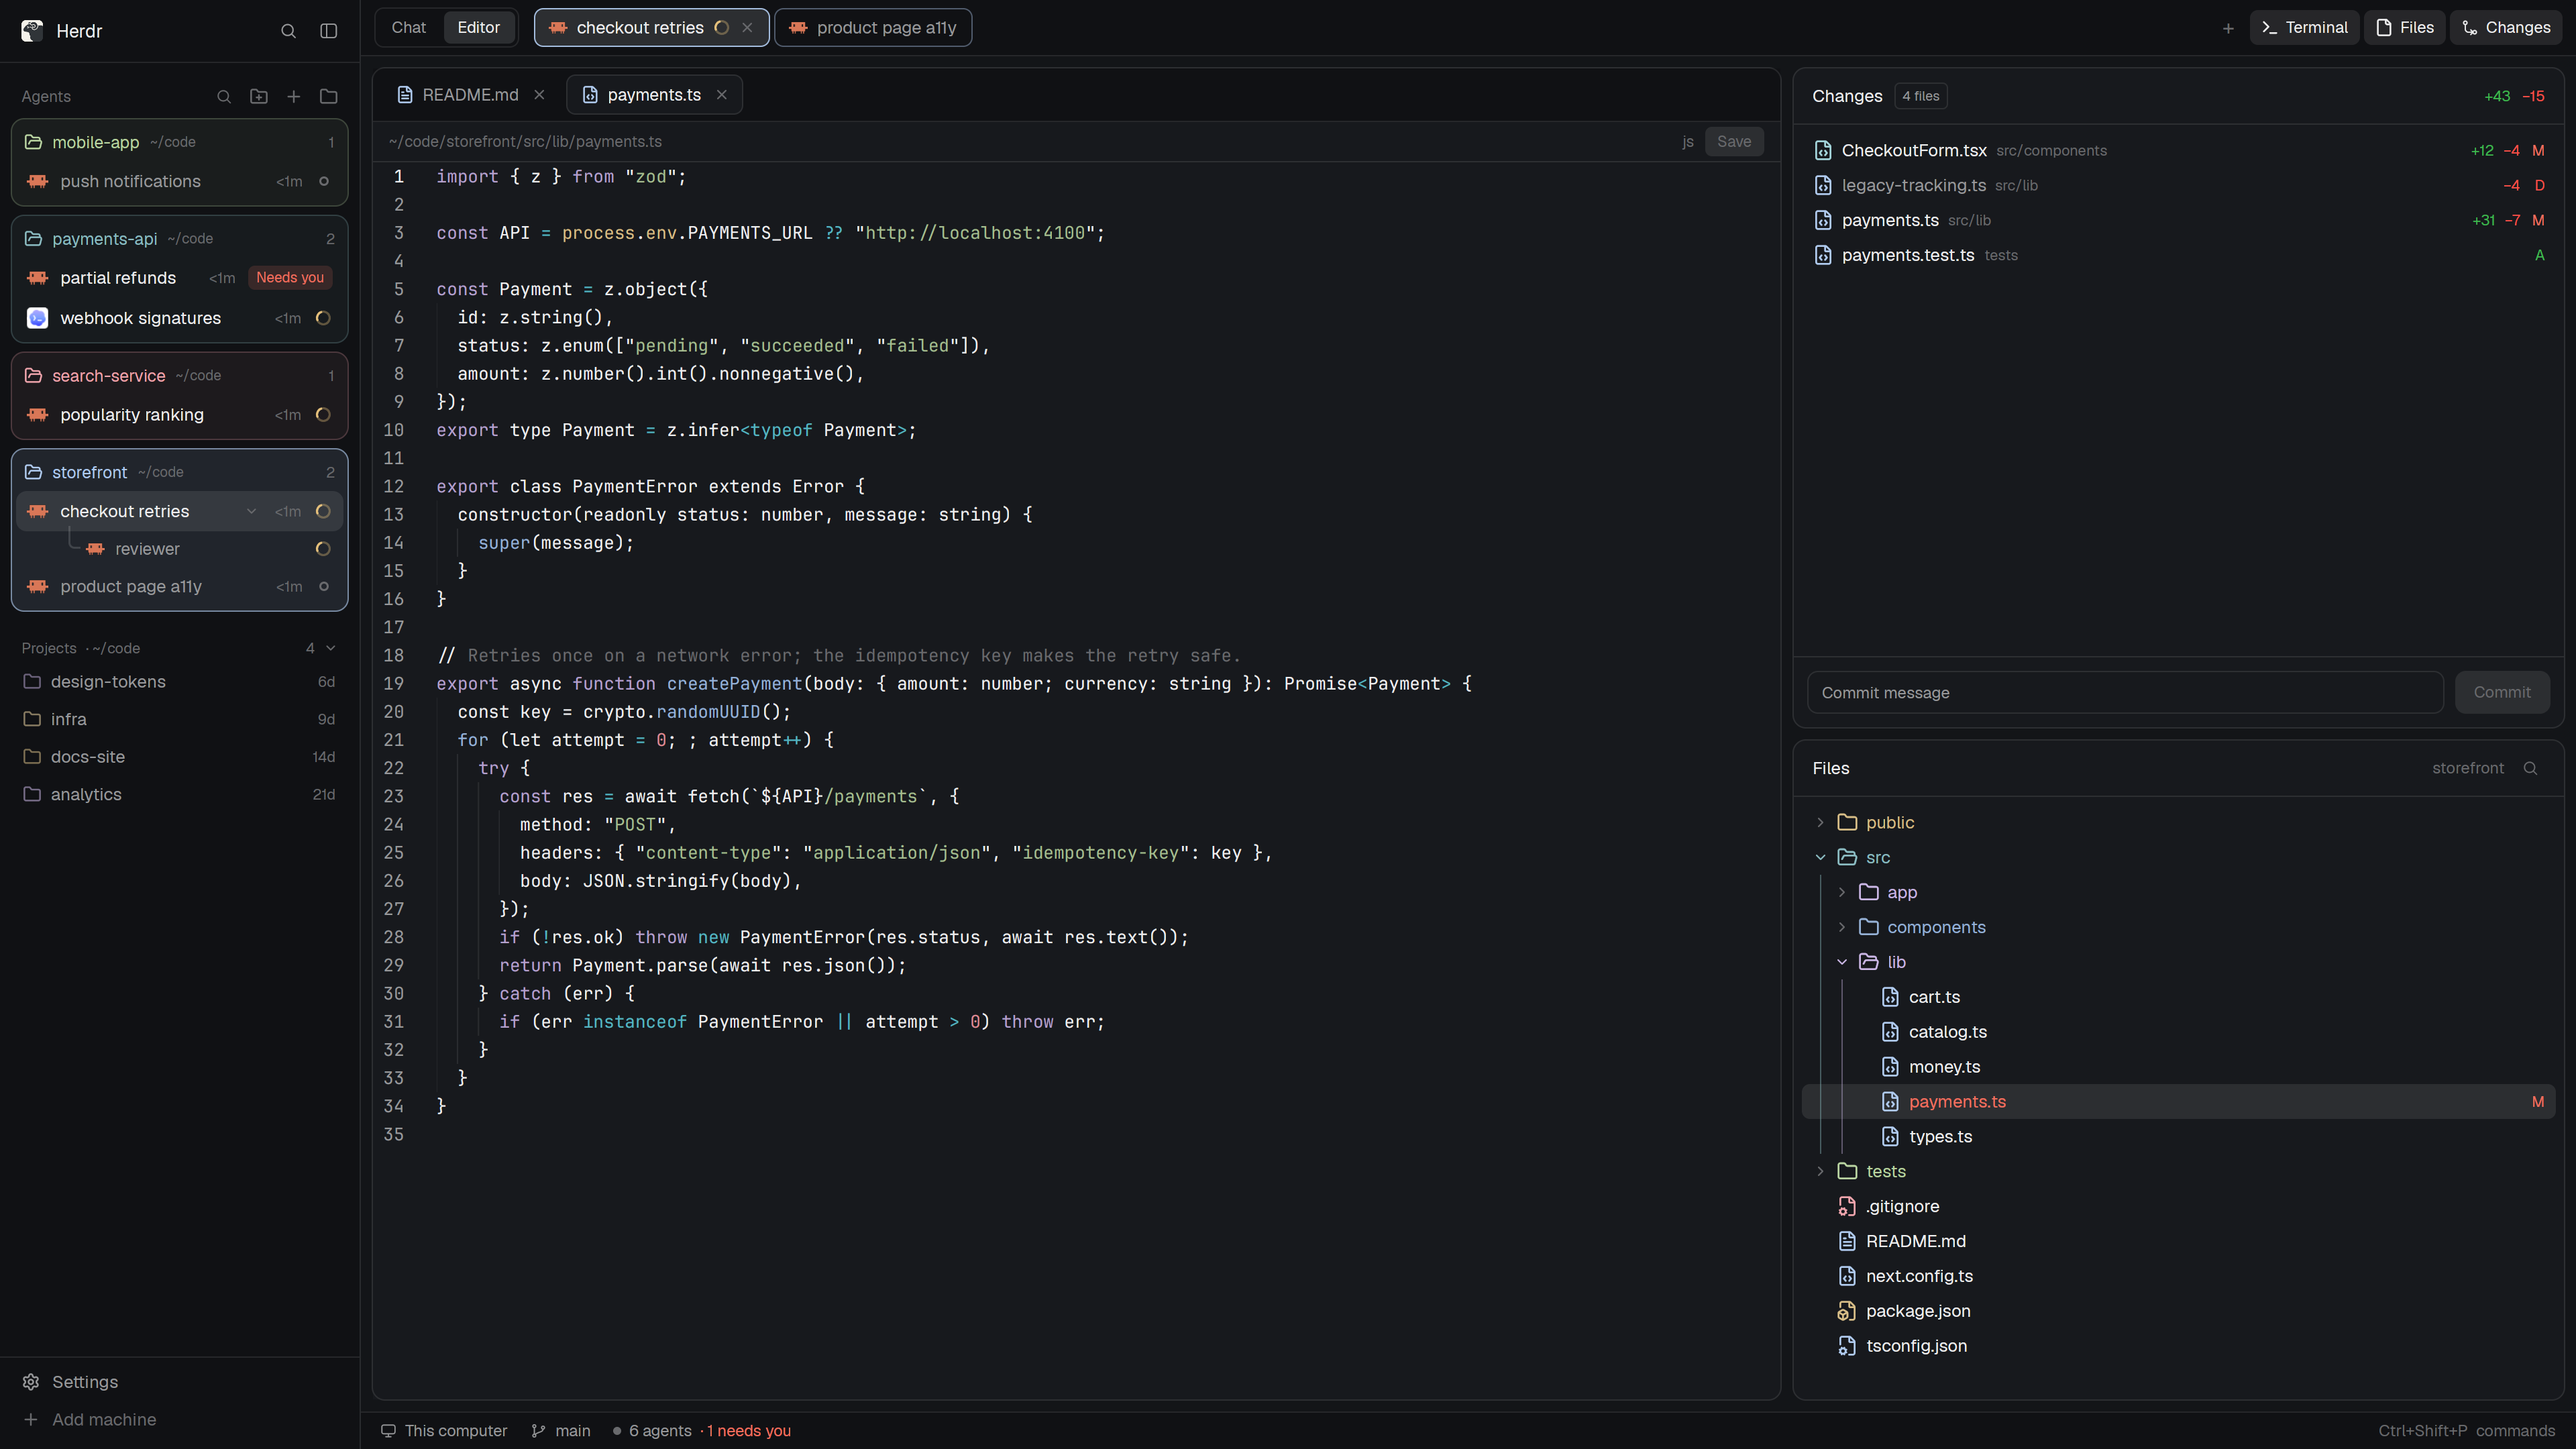
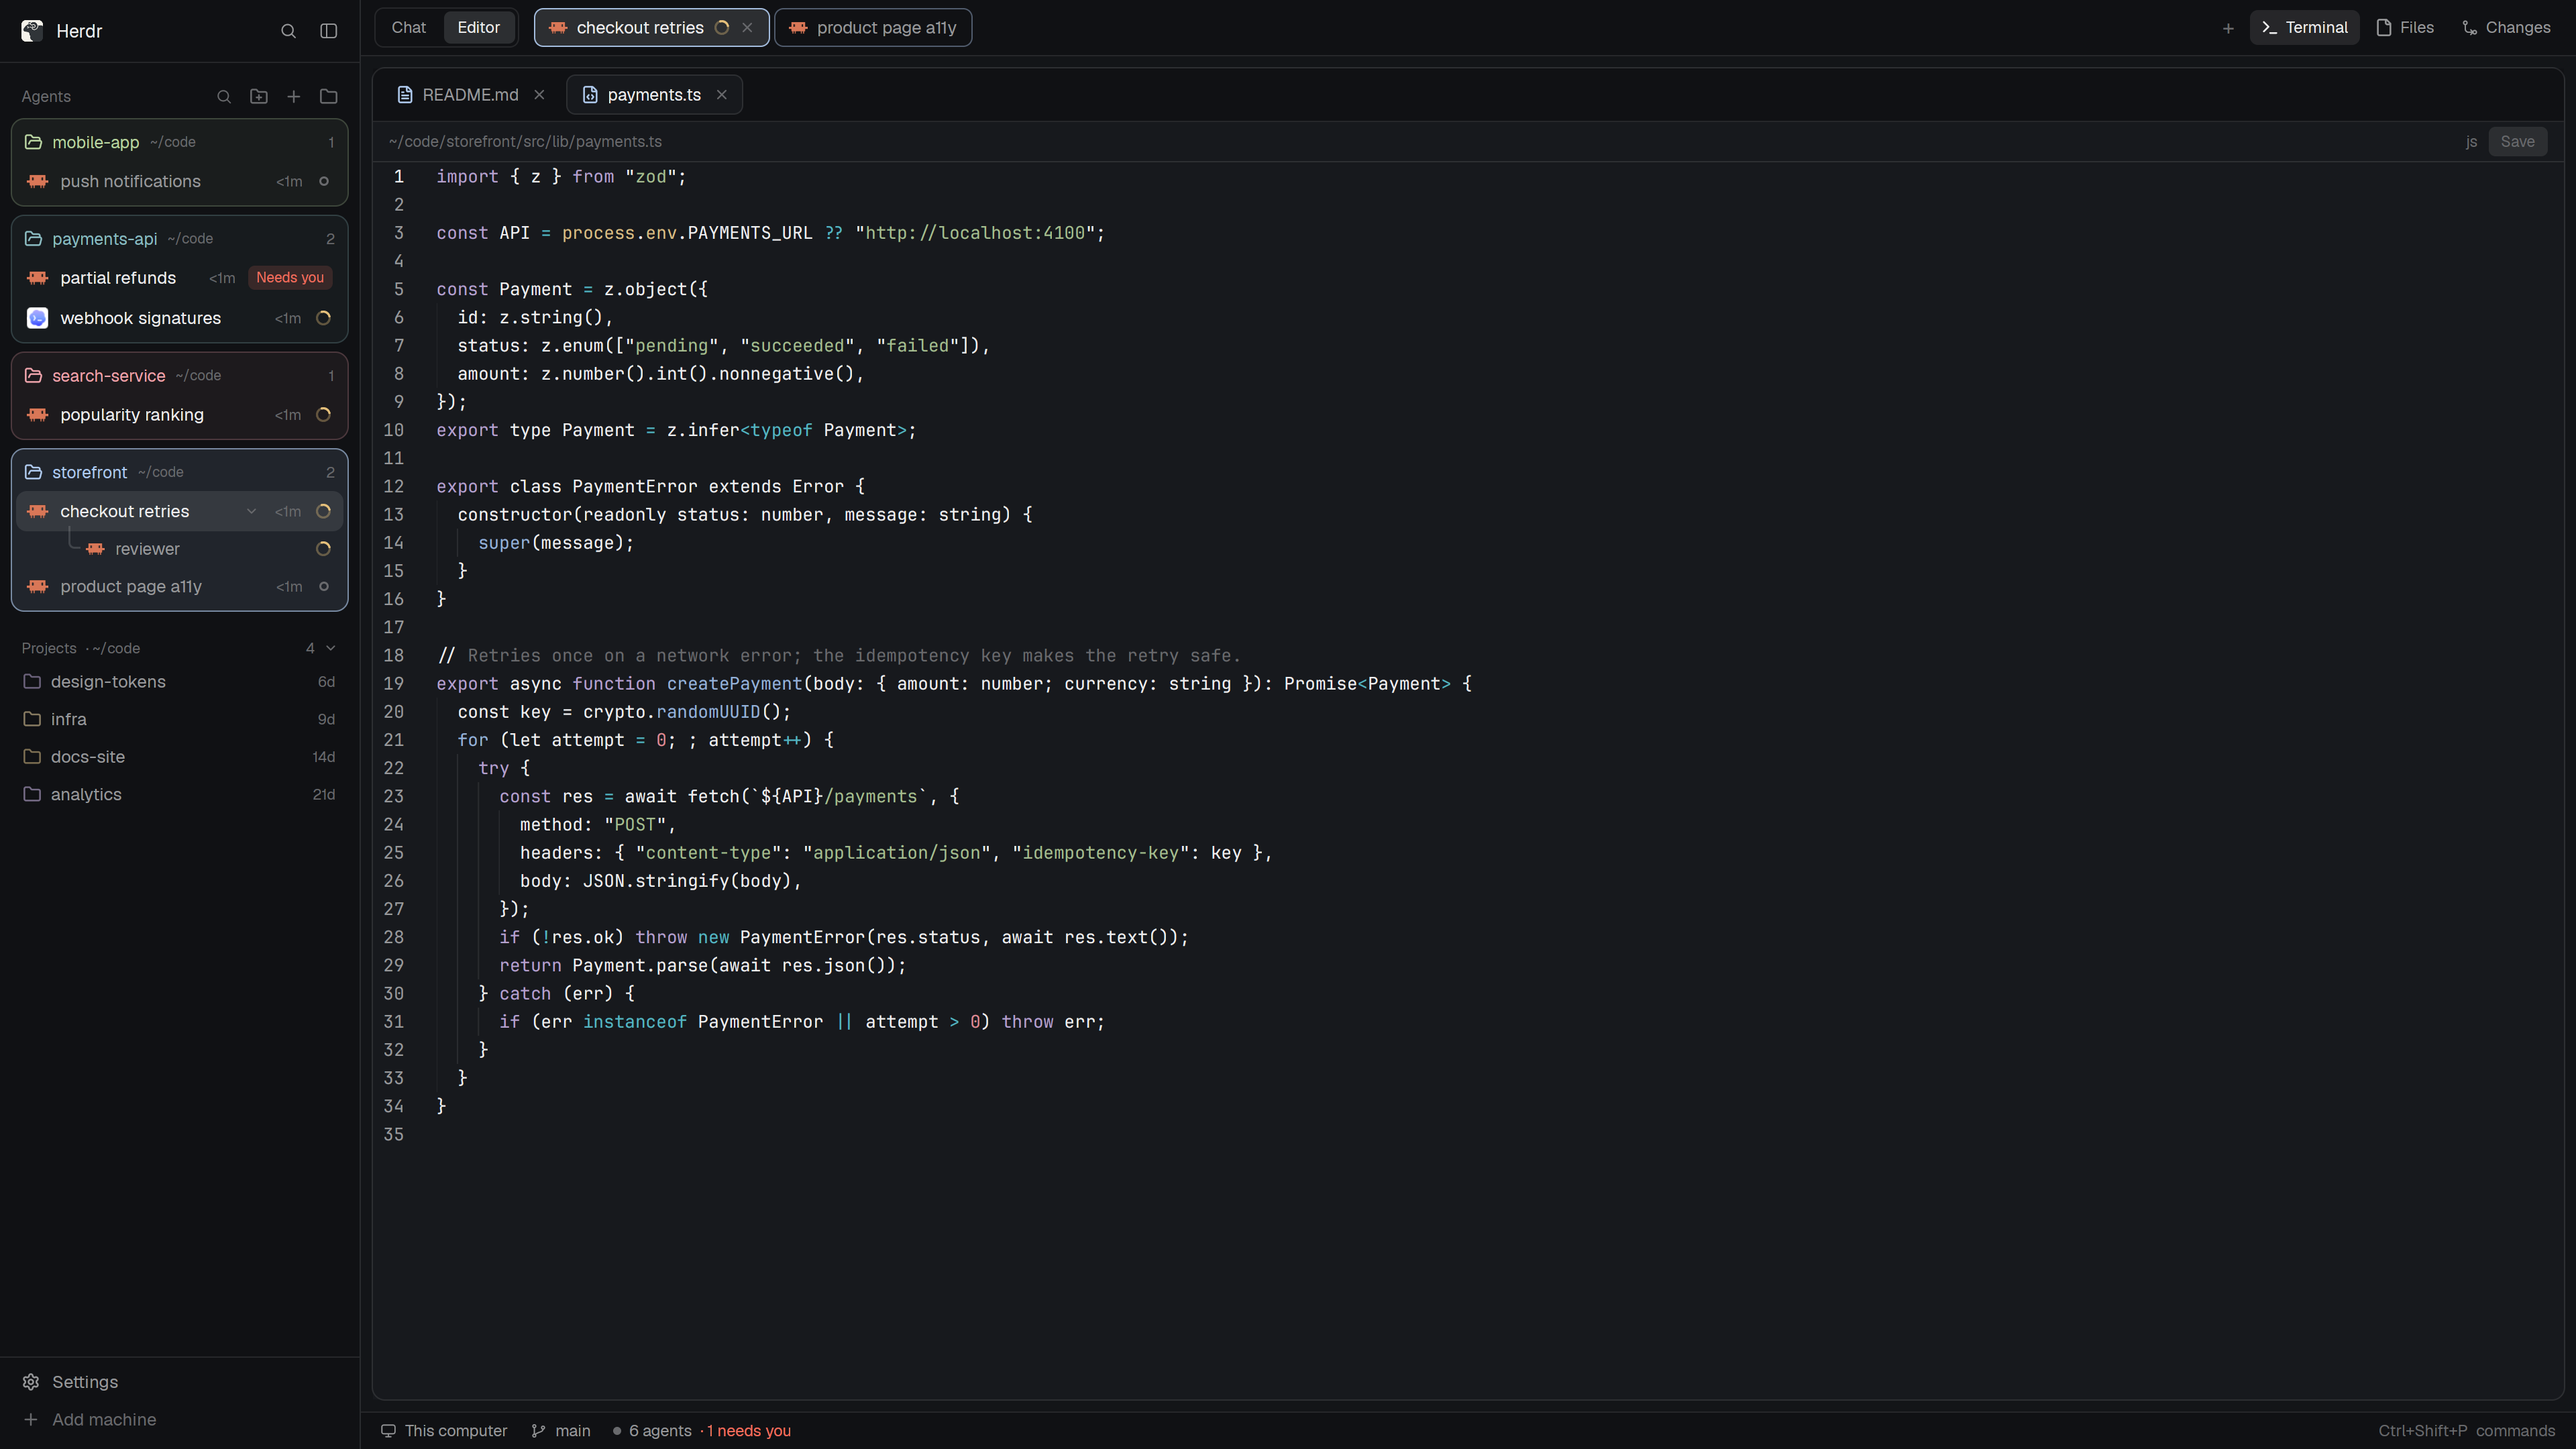
README: editor screenshot with Changes and Files hidden

diff --git a/README.md b/README.md
@@ -16,7 +16,7 @@ A [Herdr](https://herdr.dev) layout for running several coding agents at once.
 
 **Built-in editor.** Files open in tabs beside the chat and reload when an agent changes them.
 
-![A file open in the editor, marked in the Files tree](docs/screenshots/editor.png)
+![A file open in the editor beside the agents, with Changes and Files hidden](docs/screenshots/editor.png)
 
 **Keyboard first.** `Ctrl+Space` and one key reaches any panel, file or project; the panels take `j` `k`, `Enter` and `Esc`.
 
